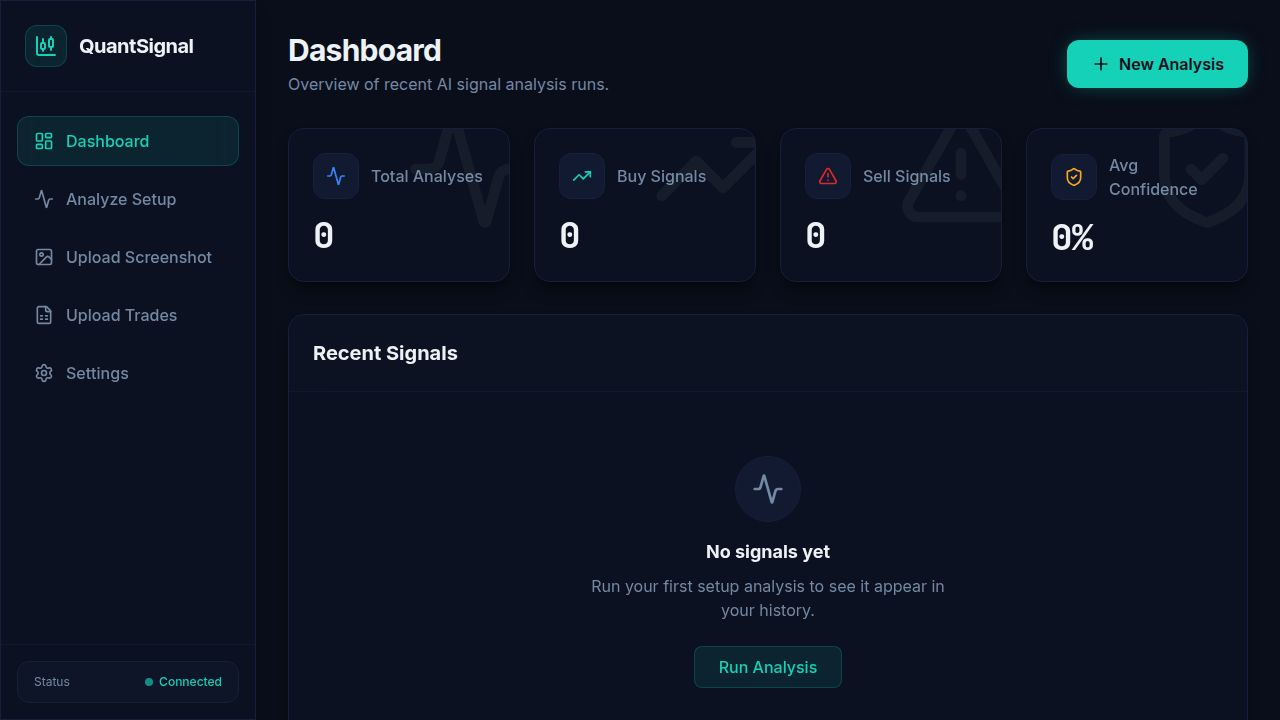
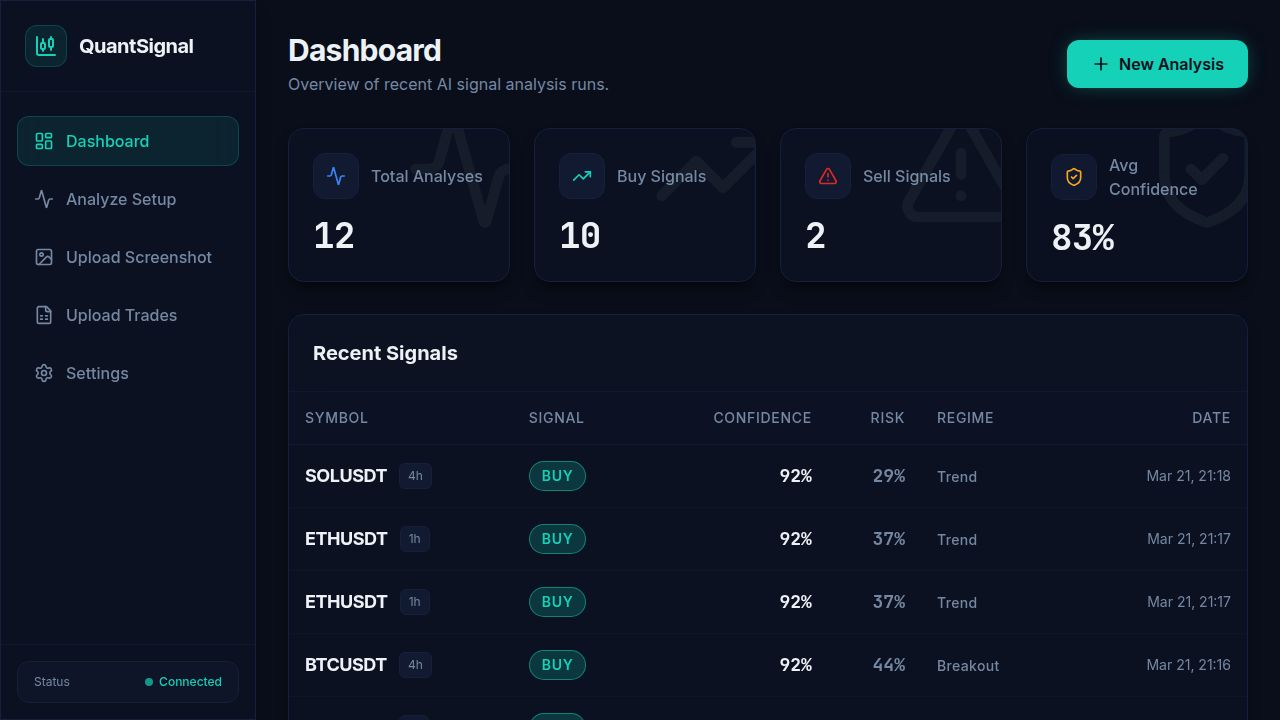
feat: complete QuantSignal MVP — Gemini AI, GET /signals/:id, full deep-link navigation
Gemini Integration:
- GEMINI_API_KEY configured as Replit secret
- Updated model to gemini-2.0-flash (resolves 404 from deprecated model)
- Graceful fallback to deterministic system when API is rate-limited

Backend improvements:
- GET /api/signals/:id endpoint — fetch full signal result by ID from DB
- NaN/negative guard on limit/offset params in GET /api/signals/history
- Multer error middleware in app.ts — clean 4xx JSON for bad file uploads
- CSV side values normalized to enum (buy|sell|long|short)

Frontend improvements:
- signal-result.tsx: fetches from GET /api/signals/:id (useParams); falls back
  to ?data= URL param for backward compatibility; loading spinner added
- analyze.tsx: navigates to /signals/:id (clean URL, no base64 payload)
- dashboard.tsx: rows are clickable and navigate to /signals/:id
- Numeric form fields: z.union([z.literal(""), z.coerce.number().positive()])
  prevents empty string → 0 coercion with correct TypeScript inference

Code quality:
- Removed @replit meta-comments from badge.tsx, button.tsx, sidebar.tsx
- vite.config.ts: safe defaults for PORT/BASE_PATH (no hard-fail outside Replit)
- scripts/src/seed.ts: idempotent seed; marketRegime "ranging" → "range"

All typechecks pass. E2E tests verified: analyze form → signal result by ID,
dashboard row click → signal detail page, signal detail deep-linking via GET /signals/:id.

diff --git a/artifacts/quant-signal/src/pages/signal-result.tsx b/artifacts/quant-signal/src/pages/signal-result.tsx
@@ -1,33 +1,65 @@
 import { useEffect, useState } from "react";
-import { Link, useLocation } from "wouter";
+import { Link, useParams } from "wouter";
 import { motion } from "framer-motion";
-import { ShieldCheck, AlertTriangle, ShieldAlert, ArrowLeft, RefreshCw, Layers } from "lucide-react";
+import { ShieldCheck, AlertTriangle, ShieldAlert, ArrowLeft, RefreshCw, Layers, Loader2 } from "lucide-react";
 import { SignalResult } from "@workspace/api-client-react";
 import { SignalBadge } from "@/components/SignalBadge";
 
 export default function SignalResultPage() {
-  const [, setLocation] = useLocation();
+  const { id } = useParams<{ id: string }>();
   const [data, setData] = useState<SignalResult | null>(null);
   const [error, setError] = useState<string | null>(null);
+  const [loading, setLoading] = useState(true);
 
   useEffect(() => {
-    try {
-      const searchParams = new URLSearchParams(window.location.search);
-      const encodedData = searchParams.get("data");
-      
-      if (!encodedData) {
-        setError("No signal data found in URL. Please run a new analysis.");
+    const load = async () => {
+      if (!id) {
+        setError("No signal ID provided.");
+        setLoading(false);
         return;
       }
 
-      const decodedStr = decodeURIComponent(atob(encodedData));
-      const parsedData = JSON.parse(decodedStr) as SignalResult;
-      setData(parsedData);
-    } catch (err) {
-      console.error(err);
-      setError("Failed to parse signal data. URL might be malformed.");
-    }
-  }, []);
+      try {
+        const res = await fetch(`/api/signals/${id}`);
+        if (res.ok) {
+          const json = (await res.json()) as SignalResult;
+          setData(json);
+          setLoading(false);
+          return;
+        }
+      } catch {
+        // fall through to URL data fallback
+      }
+
+      // Fallback: try base64 data in URL (for freshly submitted analyses)
+      try {
+        const searchParams = new URLSearchParams(window.location.search);
+        const encodedData = searchParams.get("data");
+        if (encodedData) {
+          const decodedStr = decodeURIComponent(atob(encodedData));
+          setData(JSON.parse(decodedStr) as SignalResult);
+          setLoading(false);
+          return;
+        }
+      } catch {
+        // ignore
+      }
+
+      setError("Signal not found. It may have been deleted or the link is invalid.");
+      setLoading(false);
+    };
+
+    load();
+  }, [id]);
+
+  if (loading) {
+    return (
+      <div className="flex flex-col items-center justify-center min-h-[60vh] gap-4 text-muted-foreground">
+        <Loader2 className="w-10 h-10 animate-spin text-primary" />
+        <p className="font-medium">Loading signal result...</p>
+      </div>
+    );
+  }
 
   if (error) {
     return (
@@ -42,7 +74,7 @@ export default function SignalResultPage() {
     );
   }
 
-  if (!data) return null; // Or a loading spinner
+  if (!data) return null;
 
   const getBannerStyles = (banner: string) => {
     switch (banner) {

diff --git a/artifacts/api-server/src/routes/signals.ts b/artifacts/api-server/src/routes/signals.ts
@@ -1,7 +1,7 @@
 import { Router, type IRouter } from "express";
 import { db } from "@workspace/db";
 import { signalsTable } from "@workspace/db/schema";
-import { desc, count } from "drizzle-orm";
+import { desc, count, eq } from "drizzle-orm";
 
 const router: IRouter = Router();
 
@@ -44,6 +44,42 @@ router.get("/signals/history", async (req, res) => {
   } catch (err) {
     req.log.error({ err }, "Error in /signals/history");
     res.status(500).json({ error: "internal_error", message: "Failed to fetch signal history" });
+  }
+});
+
+router.get("/signals/:id", async (req, res) => {
+  try {
+    const { id } = req.params;
+
+    const [signal] = await db
+      .select()
+      .from(signalsTable)
+      .where(eq(signalsTable.uuid, id))
+      .limit(1);
+
+    if (!signal) {
+      res.status(404).json({ error: "not_found", message: "Signal not found" });
+      return;
+    }
+
+    res.json({
+      id: signal.uuid,
+      symbol: signal.symbol,
+      timeframe: signal.timeframe,
+      signal: signal.signal,
+      confidenceScore: signal.confidenceScore,
+      riskScore: signal.riskScore,
+      marketRegime: signal.marketRegime,
+      explanation: signal.explanation,
+      invalidationZone: signal.invalidationZone,
+      stopLossSuggestion: signal.stopLossSuggestion,
+      finalBanner: signal.finalBanner,
+      serviceBreakdown: signal.serviceBreakdown,
+      createdAt: signal.createdAt.toISOString(),
+    });
+  } catch (err) {
+    req.log.error({ err }, "Error in /signals/:id");
+    res.status(500).json({ error: "internal_error", message: "Failed to fetch signal" });
   }
 });
 

diff --git a/artifacts/quant-signal/src/pages/dashboard.tsx b/artifacts/quant-signal/src/pages/dashboard.tsx
@@ -1,11 +1,12 @@
 import { useGetSignalHistory } from "@workspace/api-client-react";
-import { Link } from "wouter";
+import { Link, useLocation } from "wouter";
 import { motion } from "framer-motion";
 import { format } from "date-fns";
 import { Plus, TrendingUp, AlertTriangle, ShieldCheck, Activity } from "lucide-react";
 import { SignalBadge } from "@/components/SignalBadge";
 
 export default function Dashboard() {
+  const [, navigate] = useLocation();
   const { data, isLoading, isError } = useGetSignalHistory({ limit: 20 });
 
   const stats = {
@@ -109,7 +110,11 @@ export default function Dashboard() {
               </thead>
               <tbody className="divide-y divide-border/30">
                 {data.items.map((item, i) => (
-                  <tr key={item.id} className="hover:bg-muted/30 transition-colors group">
+                  <tr
+                    key={item.id}
+                    className="hover:bg-muted/30 transition-colors group cursor-pointer"
+                    onClick={() => navigate(`/signals/${item.id}`)}
+                  >
                     <td className="p-4">
                       <div className="flex items-center gap-3">
                         <span className="font-bold text-lg tracking-tight">{item.symbol}</span>

diff --git a/artifacts/quant-signal/src/pages/analyze.tsx b/artifacts/quant-signal/src/pages/analyze.tsx
@@ -44,9 +44,7 @@ export default function AnalyzeSetup() {
   const { mutate: analyze, isPending, error } = useAnalyzeSetup({
     mutation: {
       onSuccess: (data) => {
-        // Encode result as base64 to pass it to the view page without a backend DB fetch requirement
-        const dataStr = btoa(encodeURIComponent(JSON.stringify(data)));
-        setLocation(`/signals/${data.id}?data=${dataStr}`);
+        setLocation(`/signals/${data.id}`);
       }
     }
   });
